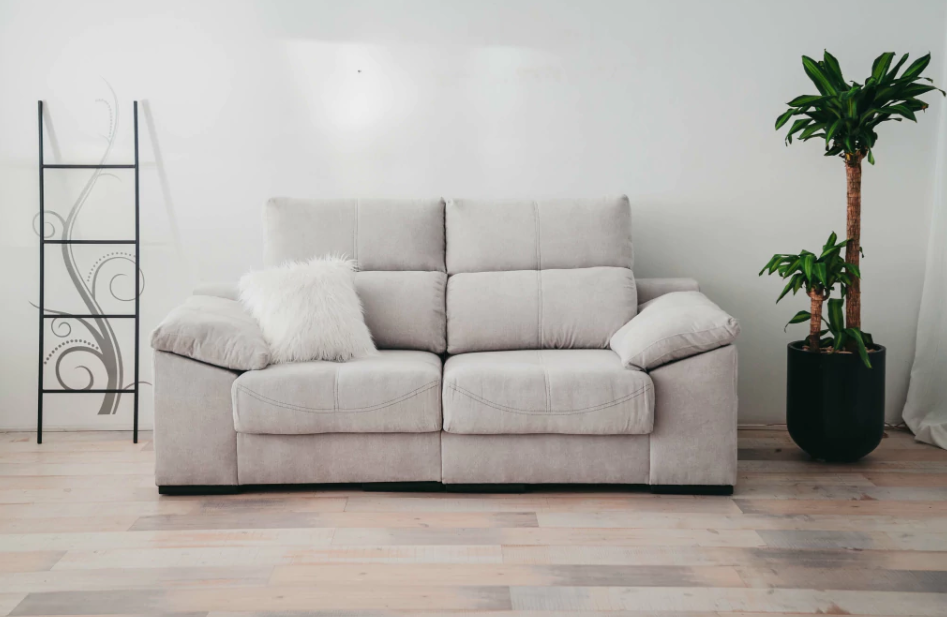
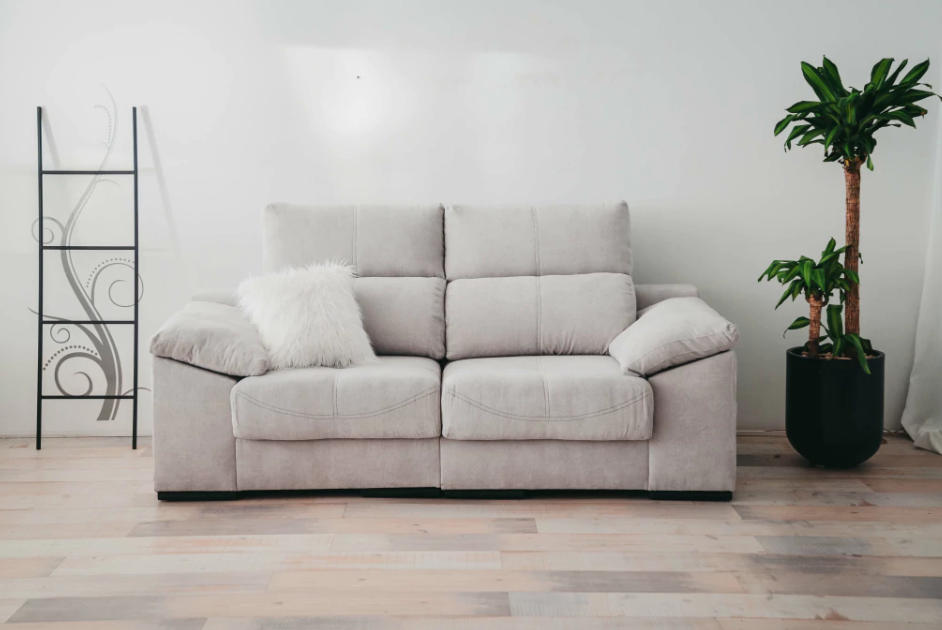
Add files via upload

diff --git a/index.html b/index.html
@@ -375,6 +375,7 @@
             <button class="chip" data-val="rinconero">Rinconero / esquinero</button>
             <button class="chip" data-val="extensible">Extensible</button>
             <button class="chip" data-val="cama">Sofá cama</button>
+            <button class="chip" data-val="butaca">Butaca individual</button>
           </div>
         </div>
 
@@ -406,10 +407,6 @@
   </div>
   <div id="results"></div>
 
-  <p class="foot-note">
-    Prototipo armado con ~15 modelos relevados del catálogo público de Sadima (living.sadima.com.ar), incluyendo precio, medidas y tipo. Para producción conviene conectarlo directo al feed de productos de la tienda (Tiendanube) para que precios y stock se actualicen solos, y sumar foto real de cada modelo.
-  </p>
-
 </div>
 
 <a class="wa-float" href="https://wa.me/5491130153645?text=Hola%2C%20quiero%20hablar%20con%20un%20asesor%20sobre%20sillones" target="_blank" rel="noopener">
@@ -422,21 +419,32 @@
 
 <script>
 const PRODUCTS = [
-  { name:"Sofá Rinconero Zenith Motion", type:"rinconero", width:2.9, depth:1.7, capacity:5, price:4492500, tags:["reclinable"], url:"https://www.sadima.com.ar/productos/sofa-rinconero-electrico-a79bt/", why:"Rinconero motorizado, ideal para living amplio con uso diario intensivo." },
-  { name:"Sofá Pavarotti con Chaiselongue", type:"rinconero", width:2.9, depth:1.7, capacity:5, price:4777500, tags:[], url:"https://www.sadima.com.ar/productos/rinconeros1/", why:"Chaiselongue de buen porte, pensado para recibir gente sin resignar espacio de paso." },
-  { name:"Rinconero Caetano", type:"rinconero", width:2.6, depth:1.7, capacity:4, price:4462500, tags:[], url:"https://www.sadima.com.ar/productos/rinconero-caetano-q9vw2/", why:"Rinconero de perfil compacto, aprovecha bien un ángulo del living." },
-  { name:"Rinconero Bocelli", type:"rinconero", width:3.2, depth:1.8, capacity:6, price:7209375, tags:[], url:"https://www.sadima.com.ar/productos/rinconero-bocelli/", why:"El más grande del catálogo — pensado para familias numerosas o living principal." },
-  { name:"Sofá 4 en 1 súper cómodo y versátil", type:"extensible", width:2.4, depth:1.6, capacity:4, price:2467500, tags:["reclinable"], url:"https://www.sadima.com.ar/productos/sofa-4-en-1-super-comodo-y-versatil-1wh01/", why:"Modular y versátil: se reconfigura según el día — buena relación uso/precio." },
-  { name:"Sofa Cama Block", type:"cama", width:1.8, depth:0.95, capacity:2, price:2381250, tags:[], url:"https://www.sadima.com.ar/productos/sofa-cama-du75l/", why:"Doble función living + cama, ideal para ambientes chicos o cuartos de huéspedes." },
-  { name:"Sofá Parma", type:"fijo", width:1.8, depth:0.95, capacity:2, price:2249250, tags:[], url:"https://www.sadima.com.ar/productos/sofa-parma-1fgsy/", why:"Sofá fijo prolijo para living chico o secundario, medida única compacta." },
-  { name:"Rinconero Elvis", type:"rinconero", width:2.8, depth:2.8, capacity:5, price:5998500, tags:[], url:"https://www.sadima.com.ar/productos/rinconera-elvis-1tf67/", why:"Rinconero simétrico grande, pensado para livings con espacio central de sobra." },
+  { name:"Sofá Rinconero Zenith Motion", type:"rinconero", width:2.9, depth:1.7, capacity:5, price:4492500, tags:["reclinable"], img:"img/zenith-motion.jpg", url:"https://www.sadima.com.ar/productos/sofa-rinconero-electrico-a79bt/", why:"Rinconero motorizado, ideal para living amplio con uso diario intensivo." },
+  { name:"Sofá Pavarotti con Chaiselongue", type:"rinconero", width:2.9, depth:1.7, capacity:5, price:4777500, tags:[], img:"img/pavarotti-chaiselongue.png", url:"https://www.sadima.com.ar/productos/rinconeros1/", why:"Chaiselongue de buen porte, pensado para recibir gente sin resignar espacio de paso." },
+  { name:"Rinconero Caetano", type:"rinconero", width:2.6, depth:1.7, capacity:4, price:4462500, tags:[], img:"img/rinconero-caetano.png", url:"https://www.sadima.com.ar/productos/rinconero-caetano-q9vw2/", why:"Rinconero de perfil compacto, aprovecha bien un ángulo del living." },
+  { name:"Rinconero Bocelli", type:"rinconero", width:3.2, depth:1.8, capacity:6, price:7209375, tags:[], img:"img/rinconero-bocelli.png", url:"https://www.sadima.com.ar/productos/rinconero-bocelli/", why:"El más grande del catálogo — pensado para familias numerosas o living principal." },
+  { name:"Sofa Cama Block", type:"cama", width:1.8, depth:0.95, capacity:2, price:2381250, tags:[], img:"img/cama-block.png", url:"https://www.sadima.com.ar/productos/sofa-cama-du75l/", why:"Doble función living + cama, ideal para ambientes chicos o cuartos de huéspedes." },
+  { name:"Sofá Parma", type:"fijo", width:1.8, depth:0.95, capacity:2, price:2249250, tags:[], img:"img/parma.png", url:"https://www.sadima.com.ar/productos/sofa-parma-1fgsy/", why:"Sofá fijo prolijo para living chico o secundario, medida única compacta." },
+  { name:"Rinconero Elvis", type:"rinconero", width:2.8, depth:2.8, capacity:5, price:5998500, tags:[], img:"img/rinconero-elvis.png", url:"https://www.sadima.com.ar/productos/rinconera-elvis-1tf67/", why:"Rinconero simétrico grande, pensado para livings con espacio central de sobra." },
   { name:"Sofá Bowie", type:"fijo", width:2.1, depth:0.95, capacity:3, price:2587500, tags:[], img:"img/bowie.png", url:"https://www.sadima.com.ar/productos/sofa-bowie/", why:"Disponible en varias medidas (1.80 a 2.80), fácil de ajustar al ancho exacto de tu pared." },
   { name:"Sofá Pavarotti (fijo)", type:"fijo", width:2.4, depth:0.95, capacity:3, price:3281250, tags:[], img:"img/pavarotti.png", url:"https://www.sadima.com.ar/productos/sofa-pavarotti/", why:"Línea con varias medidas disponibles, buen término medio entre porte y precio." },
   { name:"Sofá Dior", type:"fijo", width:2.1, depth:0.95, capacity:3, price:1142100, tags:[], img:"img/dior.png", url:"https://www.sadima.com.ar/productos/sofa-dior/", why:"La opción más accesible del catálogo relevado, sin resignar variedad de medidas." },
-  { name:"Sofá Bocelli con Chaiselongue", type:"rinconero", width:3.0, depth:1.7, capacity:4, price:5512500, tags:[], url:"https://www.sadima.com.ar/productos/sofa-bocelli-con-chaiselongue/", why:"Chaiselongue de gran formato, pensado para living principal con estilo marcado." },
+  { name:"Sofá Bocelli con Chaiselongue", type:"rinconero", width:3.0, depth:1.7, capacity:4, price:5512500, tags:[], img:"img/bocelli-chaiselongue.jpg", url:"https://www.sadima.com.ar/productos/sofa-bocelli-con-chaiselongue/", why:"Chaiselongue de gran formato, pensado para living principal con estilo marcado." },
   { name:"Sofá Sinatra", type:"extensible", width:2.1, depth:0.95, capacity:3, price:2249250, tags:[], img:"img/sinatra.jpg", url:"https://www.sadima.com.ar/productos/extensibles1/", why:"Entre los extensibles más accesibles de la gama alta del catálogo." },
-  { name:"Sofá Floyd fijo (sillón viral)", type:"fijo", width:1.9, depth:0.95, capacity:3, price:1353000, tags:["usb"], url:"https://www.sadima.com.ar/productos/sofa-floyd-fijo-sillon-viral/", why:"El modelo más pedido de la marca, con posavasos y USB integrados." },
-  { name:"Sofá Toledo", type:"fijo", width:1.9, depth:0.9, capacity:3, price:1013454, tags:[], url:"https://www.sadima.com.ar/productos/sofa-toledo/", why:"3 cuerpos cómodo, el precio más bajo del relevamiento." },
+  { name:"Sofá Floyd fijo (sillón viral)", type:"fijo", width:1.9, depth:0.95, capacity:3, price:1353000, tags:["usb"], img:"img/floyd-fijo.png", url:"https://www.sadima.com.ar/productos/sofa-floyd-fijo-sillon-viral/", why:"El modelo más pedido de la marca, con posavasos y USB integrados." },
+  { name:"Sofá 4 en 1 súper cómodo y versátil", type:"extensible", width:2.4, depth:1.6, capacity:4, price:2467500, tags:["reclinable"], img:"img/4-en-1.png", url:"https://www.sadima.com.ar/productos/sofa-4-en-1-super-comodo-y-versatil-1wh01/", why:"Modular y versátil: se reconfigura según el día — buena relación uso/precio." },
+  { name:"Sofá Toledo", type:"fijo", width:1.9, depth:0.9, capacity:3, price:1013454, tags:[], img:"img/toledo.jpg", url:"https://www.sadima.com.ar/productos/sofa-toledo/", why:"3 cuerpos cómodo, el precio más bajo del relevamiento." },
+  { name:"Sofá Madonna", type:"fijo", width:2.1, depth:0.95, capacity:3, price:2558250, tags:[], img:"img/madonna.png", url:"https://www.sadima.com.ar/productos/sofa-madonna/", why:"Chaise longue de líneas prolijas, buen término medio de precio dentro del catálogo." },
+  { name:"Sofá Lenine", type:"extensible", width:2.1, depth:0.95, capacity:3, price:3217500, tags:[], img:"img/lenine.png", url:"https://www.sadima.com.ar/productos/", why:"Cumple triple función: sofá, cama y extensible — ideal si el living también recibe visitas a dormir." },
+  { name:"Sofá Thiara", type:"extensible", width:1.8, depth:0.95, capacity:3, price:2333925, tags:["usb"], img:"img/thiara.png", url:"https://www.sadima.com.ar/productos/sofa-thiara/", why:"Asientos extensibles con cargador USB integrado, disponible en varias medidas (1.80 a 2.90)." },
+  { name:"Sofá Velvet con Chaiselongue", type:"rinconero", width:2.9, depth:1.7, capacity:5, price:3726938, tags:[], img:"img/velvet-chaiselongue.png", url:"https://www.sadima.com.ar/productos/sofa-velvet-con-chaiselongue/", why:"Rinconero de buen porte, línea Velvet de la casa." },
+  { name:"Relax Jackson", type:"butaca", width:0.85, depth:0.9, capacity:1, price:2167500, tags:["reclinable","usb"], img:"img/relax-jackson.png", url:"https://www.sadima.com.ar/living/relax-y-butacas/", why:"Sillón reclinable individual con posavasos integrados, ideal para ver series." },
+  { name:"Sinatra con Chaiselongue", type:"rinconero", width:2.4, depth:1.7, capacity:4, price:4938750, tags:[], img:"img/sinatra-chaiselongue.png", url:"https://www.sadima.com.ar/productos/", why:"Asientos extensibles, 3 cabezales retráctiles y baúl funcional a lo largo del chaiselongue." },
+  { name:"Sofá Toledo extensible", type:"extensible", width:2.1, depth:0.95, capacity:3, price:2362500, tags:[], img:"img/toledo-extensible.png", url:"https://www.sadima.com.ar/productos/", why:"Respaldo con almohadones altos y asientos extensibles, disponible en 1, 2 o 3 cuerpos." },
+  { name:"Butaca Giratoria", type:"butaca", width:0.9, depth:0.75, capacity:1, price:1860000, tags:[], img:"img/butaca-giratoria.png", url:"https://www.sadima.com.ar/productos/butaca-giratoria/", why:"Butaca individual giratoria, ideal como segundo asiento o para un rincón de lectura." },
+  { name:"Butaca Chandon Giratoria", type:"butaca", width:0.85, depth:0.8, capacity:1, price:2182500, tags:["reclinable"], img:"img/butaca-chandon-giratoria.png", url:"https://www.sadima.com.ar/productos/sofa-betania-cuero/", why:"Butaca giratoria de diseño, buen complemento visual para un living con estilo marcado." },
+  { name:"Butaca Cerati", type:"butaca", width:0.8, depth:0.75, capacity:1, price:667500, tags:[], img:"img/butaca-cerati.png", url:"https://www.sadima.com.ar/productos/reclinables1/", why:"La butaca individual más accesible del catálogo relevado." },
+  { name:"Butaca Ivette", type:"butaca", width:0.85, depth:0.85, capacity:1, price:1900000, tags:["reclinable"], img:"img/butaca-ivette.png", url:"https://www.sadima.com.ar/productos/", why:"Giratoria y reclinable, disponible en cuero o tela." },
 ];
 
 const state = { width: 2.4, capacity: 3, type: "cualquiera", budget: 5000000, extras: [] };
